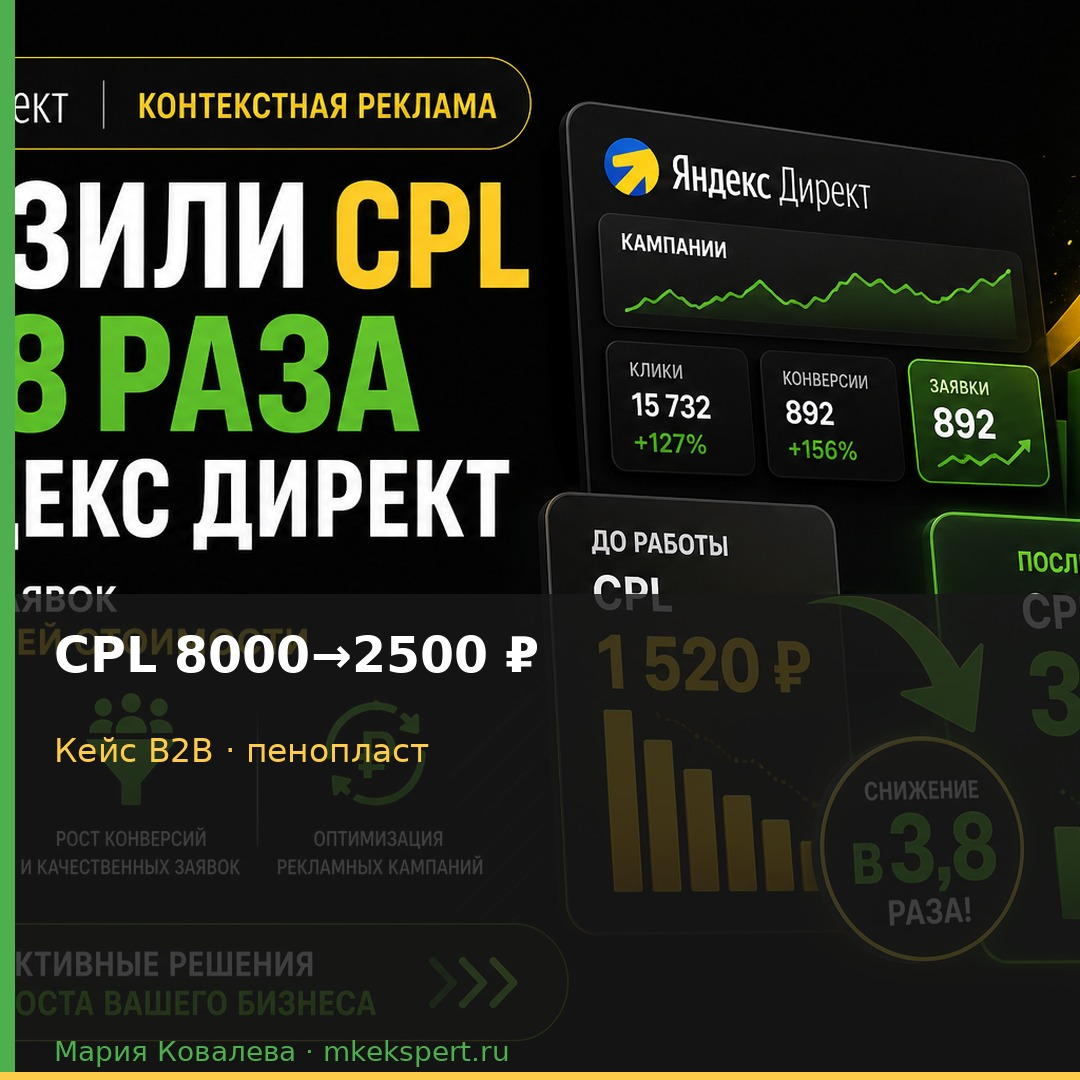
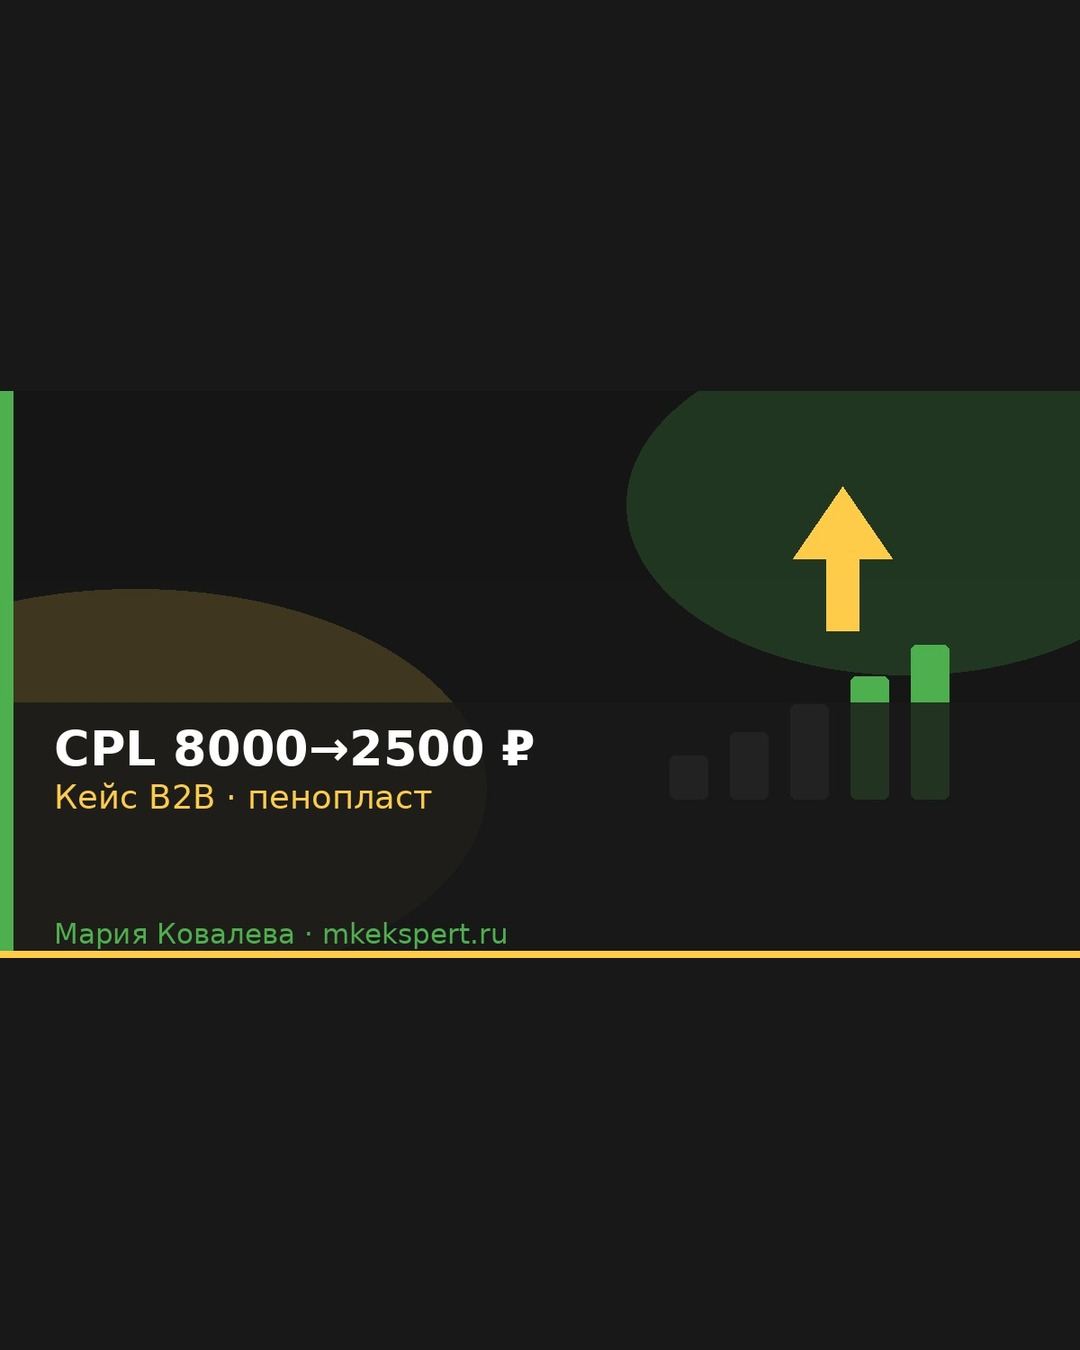
fix(vk): обложка 1080×1350 без обрезки в квадрат
VK-вариант теперь вписывает горизонтальную обложку целиком (4:5),
а не crop_center_square. Перегенерирован penoplast-case-vk.jpg.

diff --git a/автоматизация-контента/automation/generate_cover.py b/автоматизация-контента/automation/generate_cover.py
@@ -30,7 +30,8 @@ TEXT = "#FFFFFF"
 SUB = "#B0B0B0"
 
 LANDSCAPE = (1200, 630)
-SQUARE = (1080, 1080)
+VK_PORTRAIT = (1080, 1350)  # 4:5 — без обрезки в квадрат
+SQUARE = (1080, 1080)  # legacy, не использовать для VK-ленты
 
 
 def load_env() -> None:
@@ -50,8 +51,13 @@ def load_font(size: int, bold: bool = False) -> ImageFont.FreeTypeFont | ImageFo
     return ImageFont.load_default()
 
 
-def gpt_prompt(headline: str, subline: str, *, square: bool = False) -> str:
-    ratio = "1:1 square" if square else "16:9 landscape"
+def gpt_prompt(headline: str, subline: str, *, vk: bool = False, square: bool = False) -> str:
+    if vk:
+        ratio = "4:5 vertical portrait"
+    elif square:
+        ratio = "1:1 square"
+    else:
+        ratio = "16:9 landscape"
     return (
         f"Bright bold social media cover, {ratio}, dark charcoal background {BG}, "
         f"vibrant green {ACCENT_GREEN} and golden yellow {ACCENT_YELLOW} accents, "
@@ -100,14 +106,18 @@ def generate_gpt_dalle_fallback(prompt: str, size: str = "1792x1024") -> Image.I
     return Image.open(io.BytesIO(r.content)).convert("RGB")
 
 
-def fetch_gpt_background(headline: str, subline: str, *, square: bool) -> Image.Image:
-    prompt = gpt_prompt(headline, subline, square=square)
-    size = "1024x1024" if square else "1536x1024"
+def fetch_gpt_background(headline: str, subline: str, *, vk: bool = False, square: bool = False) -> Image.Image:
+    prompt = gpt_prompt(headline, subline, vk=vk, square=square)
+    if vk:
+        size, dalle = "1024x1536", "1024x1792"
+    elif square:
+        size, dalle = "1024x1024", "1024x1024"
+    else:
+        size, dalle = "1536x1024", "1792x1024"
     try:
         return generate_gpt_image(prompt, size=size)
     except Exception:
-        dalle_size = "1024x1024" if square else "1792x1024"
-        return generate_gpt_dalle_fallback(prompt, size=dalle_size)
+        return generate_gpt_dalle_fallback(prompt, size=dalle)
 
 
 def overlay_brand_text(img: Image.Image, headline: str, subline: str) -> Image.Image:
@@ -226,8 +236,26 @@ def generate_pil_fallback(headline: str, subline: str, size: tuple[int, int]) ->
     return overlay_brand_text(img, headline, subline)
 
 
-def load_background_image(path: Path, *, square: bool, target: tuple[int, int]) -> Image.Image:
+def resize_contain(img: Image.Image, size: tuple[int, int], *, bg: str = BG) -> Image.Image:
+    """Вписать целиком без обрезки (для VK из горизонтальной обложки)."""
+    tw, th = size
+    iw, ih = img.size
+    scale = min(tw / iw, th / ih)
+    nw, nh = max(1, int(iw * scale)), max(1, int(ih * scale))
+    resized = img.resize((nw, nh), Image.Resampling.LANCZOS)
+    canvas = Image.new("RGB", size, bg)
+    canvas.paste(resized, ((tw - nw) // 2, (th - nh) // 2))
+    return canvas
+
+
+def landscape_to_vk_cover(landscape: Image.Image) -> Image.Image:
+    return resize_contain(landscape, VK_PORTRAIT)
+
+
+def load_background_image(path: Path, *, vk: bool = False, square: bool = False, target: tuple[int, int]) -> Image.Image:
     img = Image.open(path).convert("RGB")
+    if vk:
+        return resize_contain(img, target)
     if square:
         img = crop_center_square(img)
     return resize_cover(img, target)
@@ -238,25 +266,38 @@ def generate_cover(
     subline: str,
     out: Path,
     *,
+    vk: bool = False,
     square: bool = False,
     use_gpt: bool = True,
     slug: str = "",
     import_path: Path | None = None,
+    from_landscape: Path | None = None,
 ) -> Path:
-    target = SQUARE if square else LANDSCAPE
+    if vk:
+        target = VK_PORTRAIT
+    elif square:
+        target = SQUARE
+    else:
+        target = LANDSCAPE
     img: Image.Image | None = None
+
+    if from_landscape and from_landscape.exists():
+        img = landscape_to_vk_cover(Image.open(from_landscape).convert("RGB"))
+        out.parent.mkdir(parents=True, exist_ok=True)
+        img.save(out, "JPEG", quality=92)
+        return out
 
     bg_path = import_path or (find_import_background(slug) if slug else None)
     if bg_path:
         try:
-            bg = load_background_image(bg_path, square=square, target=target)
+            bg = load_background_image(bg_path, vk=vk, square=square, target=target)
             img = overlay_brand_text(bg, headline, subline)
         except Exception as exc:
             print(f"⚠ import {bg_path.name}: {exc}")
 
     if img is None and use_gpt and os.getenv("OPENAI_API_KEY"):
         try:
-            bg = fetch_gpt_background(headline, subline, square=square)
+            bg = fetch_gpt_background(headline, subline, vk=vk, square=square)
             bg = bg.resize(target, Image.Resampling.LANCZOS)
             img = overlay_brand_text(bg, headline, subline)
         except Exception as exc:
@@ -275,14 +316,20 @@ def cover_paths(slug: str) -> tuple[Path, Path]:
 
 
 def ensure_covers(slug: str, headline: str, subline: str = "", *, force: bool = False) -> tuple[Path, Path]:
-    landscape, square = cover_paths(slug)
+    landscape, vk_cover = cover_paths(slug)
     if force or not landscape.exists():
         generate_cover(headline, subline, landscape, square=False, slug=slug)
         print(f"✓ {landscape}")
-    if force or not square.exists():
-        generate_cover(headline, subline, square, square=True, slug=slug)
-        print(f"✓ {square}")
-    return landscape, square
+    if force or not vk_cover.exists():
+        if landscape.exists():
+            generate_cover(headline, subline, vk_cover, from_landscape=landscape)
+        else:
+            generate_cover(headline, subline, vk_cover, vk=True, slug=slug)
+        print(f"✓ {vk_cover}")
+    elif force and landscape.exists():
+        generate_cover(headline, subline, vk_cover, from_landscape=landscape)
+        print(f"✓ {vk_cover} (из landscape)")
+    return landscape, vk_cover
 
 
 def resolve_cover_for_item(item: dict, *, vk: bool = False) -> Path | None:
@@ -396,11 +443,15 @@ def main() -> None:
             print(out)
     if args.variant in ("vk", "both"):
         out = COVERS / f"{args.slug}-vk.jpg"
+        landscape = COVERS / f"{args.slug}.jpg"
         if args.force or not out.exists():
-            generate_cover(
-                args.title, args.subtitle, out,
-                square=True, use_gpt=use_gpt, slug=args.slug, import_path=import_path,
-            )
+            if landscape.exists():
+                generate_cover(args.title, args.subtitle, out, from_landscape=landscape)
+            else:
+                generate_cover(
+                    args.title, args.subtitle, out,
+                    vk=True, use_gpt=use_gpt, slug=args.slug, import_path=import_path,
+                )
             print(out)
 
 

diff --git a/автоматизация-контента/automation/publish.py b/автоматизация-контента/automation/publish.py
@@ -1441,7 +1441,7 @@ def cmd_vk_attach_cover(args: argparse.Namespace) -> int:
     item = find_queue_item(items, args.id)
     if not item or not item.get("cover"):
         raise SystemExit("Нет cover в очереди для этого id")
-    cover = ROOT / item["cover"]
+    cover = resolve_cover_path(item, vk=True) or ROOT / item["cover"]
     gid = resolve_vk_group_id(community, group)
     attachment = upload_vk_wall_photo(user, gid, cover)
 

diff --git a/автоматизация-контента/references/vk-markup.md b/автоматизация-контента/references/vk-markup.md
@@ -13,7 +13,7 @@ API публикует **plain text** — жирный через редакто
 |----------|----------|
 | Текст поста | до 15 940 знаков |
 | Оптимум | **500–1500** знаков |
-| Обложка | 1080×1080 (квадрат) или 1080×1350 (вертикаль) |
+| Обложка | 1080×1350 (4:5, вертикаль) — из горизонтальной без обрезки в квадрат |
 | Эмодзи | **1–2** на пост (в начале или у CTA) |
 
 ---
